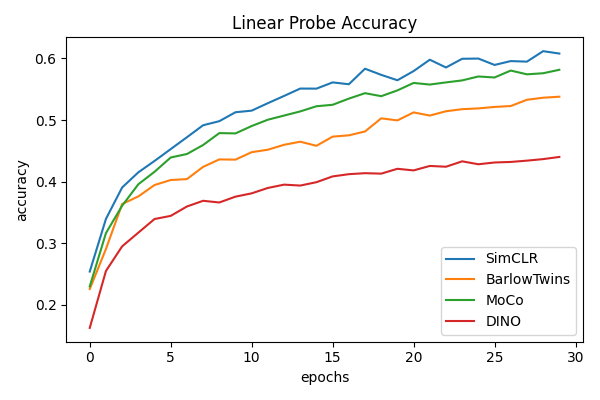
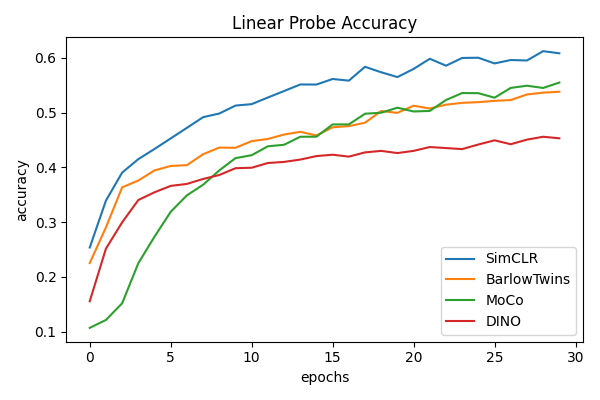
updated plots

diff --git a/algorithms.py b/algorithms.py
@@ -168,7 +168,14 @@ class MoCo(MomentumContrastiveModel):
 
         # feature queue update
         self.feature_queue.assign(
-            tf.concat([m_projections_1, self.feature_queue[:-batch_size]], axis=0)
+            tf.concat(
+                [
+                    m_projections_1,
+                    m_projections_2,
+                    self.feature_queue[: -(2 * batch_size)],
+                ],
+                axis=0,
+            )
         )
         return loss
 
